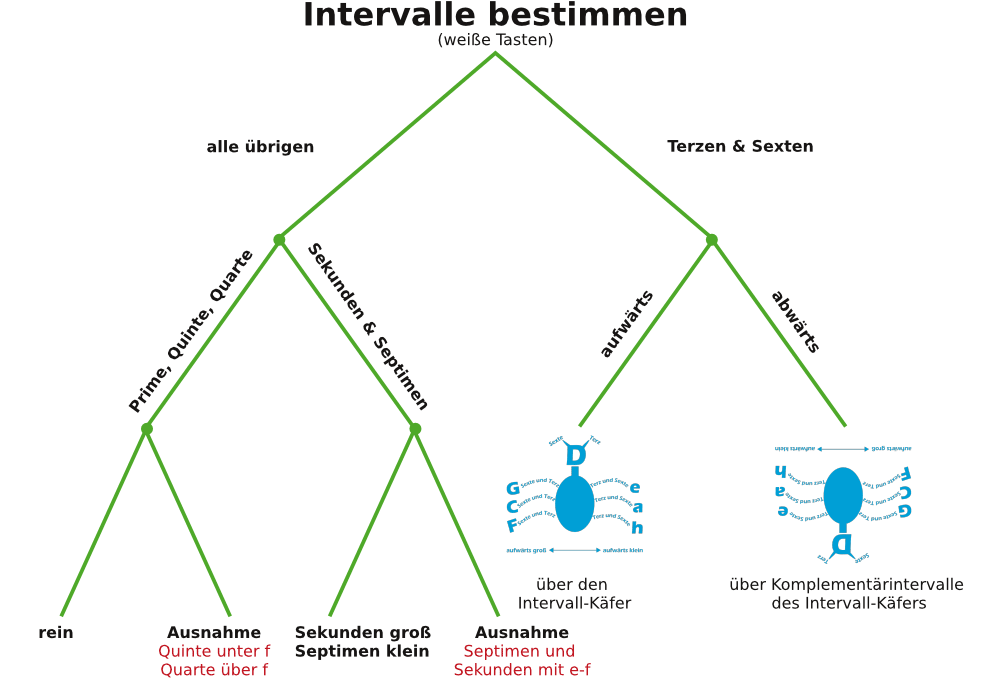
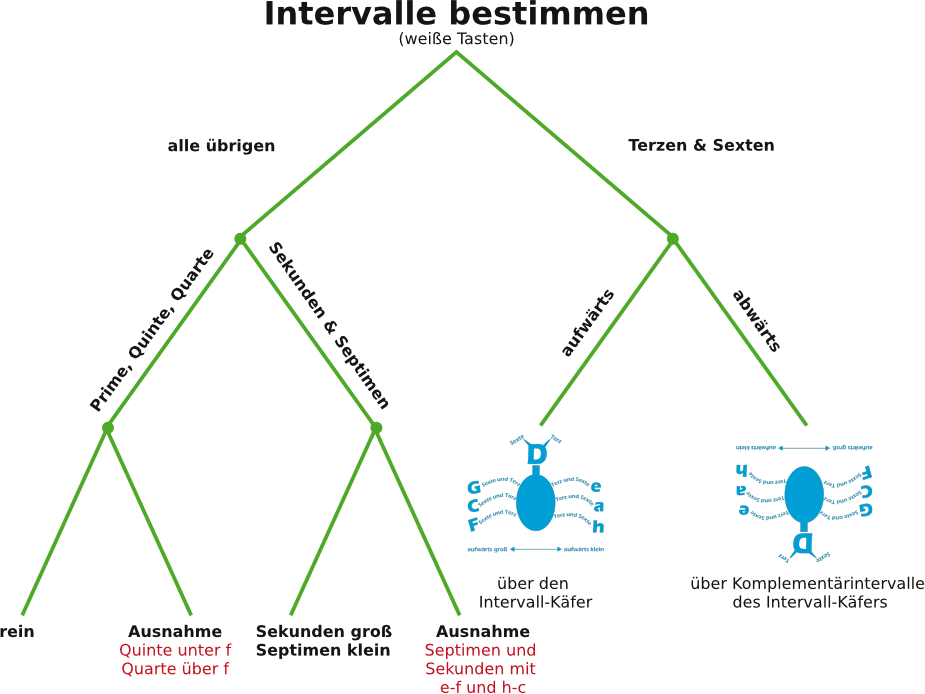
Fix error in 'intervalle bestimmen' image

diff --git a/src/tutorials/intervalle-bestimmen.html b/src/tutorials/intervalle-bestimmen.html
@@ -88,10 +88,10 @@ abstract: In diesem Tutorial lernen Sie, Intervalle zwischen den Stammtönen (we
 </p>
 <ul>
 	<li>
-		Von allen Stufen der Tonleiter aus (<i>c</i>, <i>d</i>, <i>e</i>, <i>f</i>, <i>g</i>, <i>a</i> und <i>h</i>) sind Primen, Quarten und Quinten rein. Ausnahme bilden die Quarte über sowie die Quinte unter <i>f</i> (also die Quarte über und die Quinte unter der vierten Tonleiterstufe).
+		Von allen Stufen der Tonleiter aus (<i>c</i>, <i>d</i>, <i>e</i>, <i>f</i>, <i>g</i>, <i>a</i> und <i>h</i>) sind Primen, Quarten und Quinten rein. <b>Ausnahme bilden die Quarte über sowie die Quinte unter f</b> (also die Quarte über und die Quinte unter der vierten Tonleiterstufe).
 	</li>
 	<li>
-		Von allen Stufen der Tonleiter aus sind Sekunden groß und Septimen klein. Ausnahmen bilden Sekunden und Septimen, die sich mit den Tönen <i>e</i>-<i>f</i> und <i>h</i>-<i>c</i> bilden lassen (also mit den ›natürlichen‹ Halbtonschritten 3-4 und 7-8). Die durch natürliche Halbtonschritte gebildete Sekunden sind klein, Septimen sind groß. 
+		Von allen Stufen der Tonleiter aus sind Sekunden groß und Septimen klein. <b>Ausnahmen bilden Sekunden und Septimen, die sich mit den Tönen <i>e</i>-<i>f</i> und <i>h</i>-<i>c</i>, also mit den ›natürlichen‹ Halbtonschritten bilden lassen</b> (das sind die Tonleiterstufen 3-4 und 7-8 in Dur bzw. 2-3 und 5-6 in Moll). Die durch natürliche Halbtonschritte gebildete Sekunden sind klein, Septimen sind groß. 
 	</li>
 </ul>
 <p>
